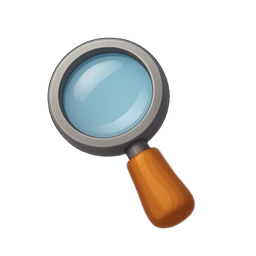
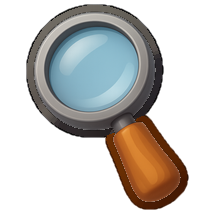
Ikony UI dostaja obrys i traca przezroczysty margines
Gwiazdka z gry czytala sie z odleglosci, reszta zestawu nie. Pomiar
krawedzi pokazal dlaczego: `star.png` ma ciemny rant szerokosci ~2,9%
swojego rozmiaru (RGB 163,89,2 przy wypelnieniu 249,208,34 — ten sam
odcien, jasnosc x0,65, nasycenie dobite do maksimum), a pozostale ikony
mialy tylko miekki cien renderu, ktory na kremowym kaflu HUD ginie.

Drugi pomiar dotyczyl rozmiaru. W `ikona-puzzel.png` widoczny ksztalt
zajmowal 170x154 px plotna 256x256 — 66% szerokosci. Przy `width:31px;
object-fit:contain` dawalo to 19,9 px puzzla obok 31 px gwiazdki w tym
samym kaflu. Ikona nie byla za mala stylami, byla za mala w pliku.
Reszta zestawu miala ten margines w przedziale 58–75%, kazda inaczej,
wiec zaden jeden numer w CSS nie mogl ich zrownac.

Po zmianie kazda ikona wypelnia 96% plotna, a puzzel w licznku mierzy
28,9 x 26,4 px zamiast 19,9 x 18,0 — przy niezmienionej szerokosci
kafla (82,9 px) i odstepie do liczby 3,6 px (gwiazdka ma 3,0 px).
Zadnej reguly CSS nie trzeba bylo ruszac; znika za to nadpisanie
`.popup-postaci-cel--puzzle { width:56px }`, ktore probowalo ratowac
proporcje w druga strone.

Obrys rysujemy NA ZEWNATRZ ksztaltu, a kolor bierzemy z najblizszego
piksela wnetrza, nie z wygladzonej krawedzi — dzieki temu render 3D nie
traci detalu, a ikona wielobarwna (lupa: drewniana raczka, szklana
soczewka) dostaje kontur idacy za lokalnym kolorem.

`ikona-kamienie.png` wchodzi przy okazji do repozytorium: `Swiat.jsx`
[…]

diff --git a/frontend/src/hub/styles/hub.css b/frontend/src/hub/styles/hub.css
@@ -1877,9 +1877,6 @@
   width:58px; height:58px; object-fit:contain;
   filter:drop-shadow(0 4px 3px rgba(96,56,8,.24));
 }
-.popup-postaci-cel--puzzle .popup-postaci-cel-ikona{
-  width:56px; height:56px;
-}
 .popup-postaci-cel-razy{
   color:var(--braz-500,#6f4719); font-size:27px; font-weight:900; line-height:1;
 }

diff --git a/scripts/ikony-obrys.py b/scripts/ikony-obrys.py
@@ -1,0 +1,142 @@
+# -*- coding: utf-8 -*-
+# SPDX-FileCopyrightText: © 2026 Amitiel Angelisme <armitiel@gmail.com>
+# SPDX-License-Identifier: LicenseRef-EwolucJA-Proprietary
+#
+# EwolucJA — gra edukacyjna dla dzieci.
+# Produkt powstał w ramach projektu Stowarzyszenia na Rzecz Edukacji „Pomost”;
+# autorskie prawa majątkowe pozostają przy autorze. Licencja: LICENSE.
+"""
+ikony-obrys.py — nadaje ikonom UI wspólny styl: obrys w kolorze wypełnienia
+i kadr bez przezroczystego marginesu.
+
+DLACZEGO OBRYS. Wzorcem jest `/star.png` — jedyna ikona, która czytała się
+z odległości. Pomiar jej krawędzi (profil jasności wzdłuż odległości od
+konturu) pokazał, że to nie zasługa kształtu, tylko ciemnego rantu:
+
+    1–5 px od krawędzi   RGB ≈ (163, 89, 2)    V 0,64   S 0,99
+    od 8 px w głąb       RGB ≈ (249, 208, 34)  V 0,97   S 0,86
+
+czyli pas o szerokości ~2,9 % rozmiaru ikony, w tym samym odcieniu, ale
+z jasnością pomnożoną przez ~0,65 i nasyceniem dobitym do maksimum.
+Pozostałe ikony UI miały wyłącznie miękki cień renderu — na kremowym kaflu
+HUD rozmywały się w tle. Ten skrypt dokłada im ten sam rant.
+
+DLACZEGO KADR. Drugi pomiar: w `ikona-puzzel.png` widoczny kształt zajmował
+170×154 px płótna 256×256, czyli 66 % szerokości i 60 % wysokości. Przy
+`width: 31px; object-fit: contain` dawało to 19,9 px realnego puzzla obok
+31 px gwiazdki z tego samego kafla. Ikona nie była za mała stylami — była
+za mała w pliku. Reszta zestawu miała ten margines w przedziale 58–75 %,
+każda inaczej, więc żaden jeden numer w CSS nie mógł ich zrównać.
+Po przycięciu do zawartości jeden rozmiar w CSS = jeden rozmiar optyczny.
+
+OBRYS RYSUJEMY NA ZEWNĄTRZ kształtu, nie przemalowujemy krawędzi grafiki:
+render 3D ma na obrzeżu własne cieniowanie, a przyciemnienie go po raz drugi
+zjadałoby detal. Kolor rantu bierzemy z NAJBLIŻSZEGO piksela wnętrza (a nie
+z wygładzonej krawędzi), dzięki czemu ikona wielobarwna — jak lupa: drewniana
+rączka i szklana soczewka — dostaje kontur, który idzie za lokalnym kolorem.
+
+Użycie:
+    python scripts/ikony-obrys.py frontend/public/assets/wskazowki/ikona-lupa.png ...
+    (plik nadpisywany w miejscu; `--do KATALOG` zapisuje obok)
+"""
+import argparse
+import os
+
+import numpy as np
+from PIL import Image
+from scipy.ndimage import distance_transform_edt
+
+GRUBOSC = 0.042       # szerokość obrysu jako ułamek dłuższego boku kształtu
+MARGINES = 0.02       # oddech wokół gotowej ikony (ułamek boku płótna)
+V_OBRYSU = 0.58       # jasność rantu względem wypełnienia
+S_WZMOCNIENIE = 1.12  # nasycenie rantu: x1,12 ...
+S_DODATEK = 0.06      # ... i jeszcze odrobinę w górę
+PROG_KSZTALTU = 0.55  # alfa, od której piksel liczy się jako „ciało" ikony
+
+
+def przyciemnij(rgb):
+    """Ten sam odcień, niższa jasność, mocniejsze nasycenie — jak rant gwiazdki."""
+    mx = rgb.max(-1, keepdims=True)
+    mn = rgb.min(-1, keepdims=True)
+    nasycenie = np.where(mx > 1e-6, (mx - mn) / np.maximum(mx, 1e-6), 0)
+    cel_s = np.clip(nasycenie * S_WZMOCNIENIE + S_DODATEK, 0, 1)
+
+    baza = rgb * V_OBRYSU
+    mx2 = baza.max(-1, keepdims=True)
+    mn2 = baza.min(-1, keepdims=True)
+    docelowe_mn = mx2 * (1 - cel_s)
+    zakres = np.maximum(mx2 - mn2, 1e-6)
+    return np.clip(mx2 - (mx2 - baza) * (mx2 - docelowe_mn) / zakres, 0, 1)
+
+
+def obrysuj(sciezka, wynik, grubosc=GRUBOSC, przytnij=True):
+    im = Image.open(sciezka).convert("RGBA")
+    a = np.array(im).astype(np.float64) / 255.0
+    rgb, alfa = a[..., :3], a[..., 3]
+    ksztalt = alfa > PROG_KSZTALTU
+
+    ys, xs = np.nonzero(alfa > 0.03)
+    bok = max(xs.max() - xs.min() + 1, ys.max() - ys.min() + 1)
+    r = grubosc * bok
+
+    # Źródło koloru: wnętrze kształtu, żeby nie zassać przyciemnionej krawędzi.
+    rdzen = ksztalt & (distance_transform_edt(ksztalt) >= max(2.0, r * 0.7))
+    if rdzen.sum() < 0.05 * ksztalt.sum():
+        rdzen = ksztalt
+
+    do_rdzenia, skad = distance_transform_edt(~rdzen, return_indices=True)
+    kolor = przyciemnij(rgb[skad[0], skad[1]])
+
+    # Cienkie elementy (rączka lupy, wstążka zwoju) nie mają własnego rdzenia —
+    # tam rdzeń bywa po drugiej stronie ikony, więc bierzemy najbliższy piksel ciała.
+    _, skad_ciala = distance_transform_edt(~ksztalt, return_indices=True)
+    daleko = do_rdzenia > r + 4
+    kolor[daleko] = przyciemnij(rgb[skad_ciala[0], skad_ciala[1]])[daleko]
+
+    na_zewnatrz = distance_transform_edt(~ksztalt)
+    krycie = np.clip((r - na_zewnatrz) / 1.25 + 0.5, 0, 1)  # ostatni piksel wygładzony
+    krycie[ksztalt] = 0
+
+    wynikowa_alfa = alfa + krycie * (1 - alfa)
+    bezpieczna = np.maximum(wynikowa_alfa, 1e-6)[..., None]
+    wynikowy_rgb = (rgb * alfa[..., None]
+                    + kolor * (krycie * (1 - alfa))[..., None]) / bezpieczna
+
+    plotno = np.dstack([np.clip(wynikowy_rgb, 0, 1), np.clip(wynikowa_alfa, 0, 1)])
+    im2 = Image.fromarray((plotno * 255 + 0.5).astype(np.uint8), "RGBA")
+
+    if przytnij:
+        al = np.array(im2)[..., 3]
+        ys, xs = np.nonzero(al > 6)
+        szer, wys = xs.max() - xs.min() + 1, ys.max() - ys.min() + 1
+        # Kwadrat, nie ciasny prostokąt: reguły CSS ustawiają width == height,
+        # więc płótno o proporcji 1:1 znaczy „dłuższy bok wypełnia kafelek".
+        bok2 = int(round(max(szer, wys) * (1 + 2 * MARGINES)))
+        srx, sry = (xs.min() + xs.max()) / 2, (ys.min() + ys.max()) / 2
+        kadr = Image.new("RGBA", (bok2, bok2), (0, 0, 0, 0))
+        kadr.alpha_composite(im2, (int(round(bok2 / 2 - srx)), int(round(bok2 / 2 - sry))))
+        im2 = kadr
+
+    im2.save(wynik, optimize=True)
+    return im2
+
+
+def main():
+    p = argparse.ArgumentParser(description="Obrys i kadr dla ikon UI EwolucJI.")
+    p.add_argument("pliki", nargs="+")
+    p.add_argument("--do", dest="katalog", default=None,
+                   help="katalog wyjściowy; domyślnie nadpisujemy w miejscu")
+    p.add_argument("--grubosc", type=float, default=GRUBOSC)
+    p.add_argument("--bez-kadru", action="store_true")
+    a = p.parse_args()
+
+    for sciezka in a.pliki:
+        wynik = (os.path.join(a.katalog, os.path.basename(sciezka))
+                 if a.katalog else sciezka)
+        przed = Image.open(sciezka).size
+        im = obrysuj(sciezka, wynik, a.grubosc, not a.bez_kadru)
+        print("%-24s %sx%s -> %sx%s" % (os.path.basename(sciezka), *przed, *im.size))
+
+
+if __name__ == "__main__":
+    main()
